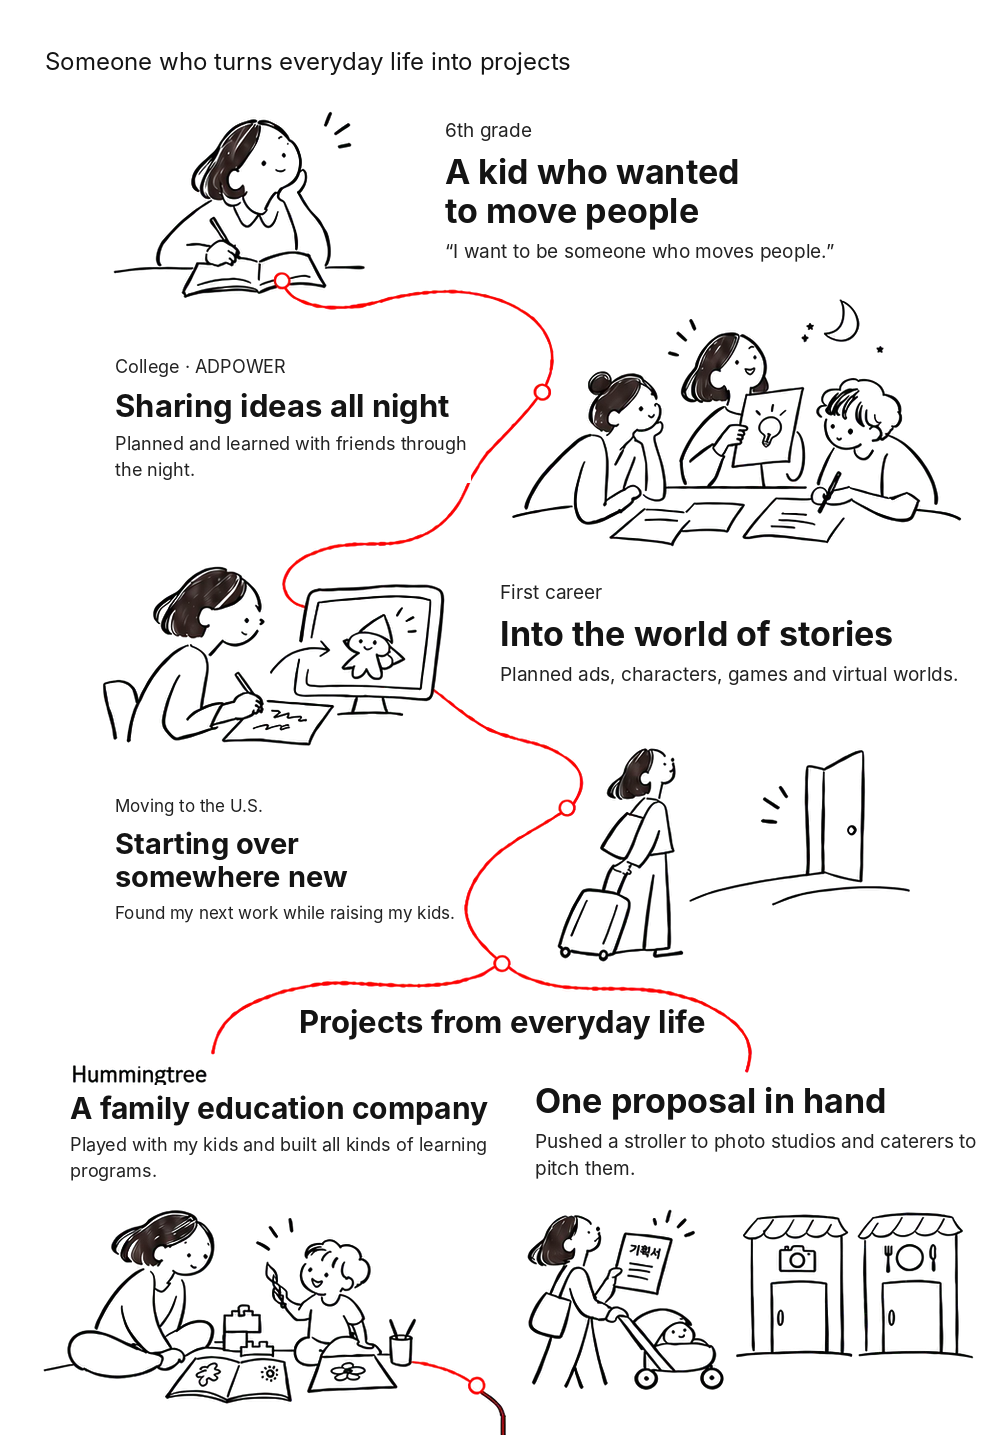
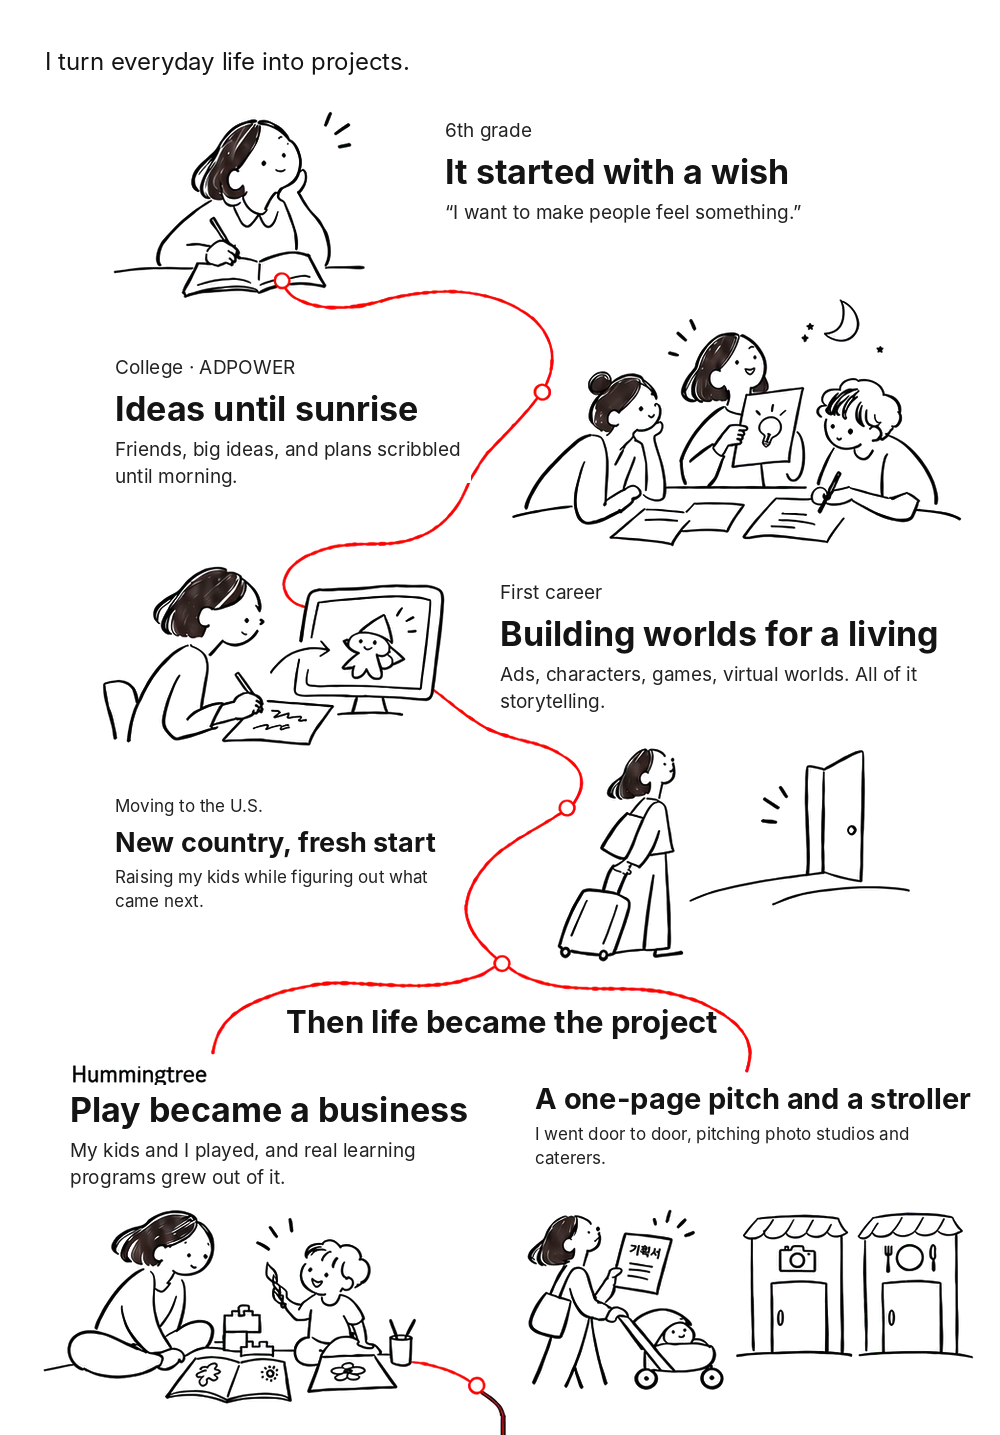
Rewrite English story illustrations in a natural first-person voice
The first English pass followed the Korean line by line and read as a
translation. The illustration text and alt text now say the same things
the way Eun Young would say them in English (e.g. "It started with a
wish", "Ideas until sunrise", "Play became a business", "A giggling
grandma on the stand-up stage").

Claude-Session: https://claude.ai/code/session_019GEG56SYYFRMRsvBGsGr5e

diff --git a/team/eunyoung.html b/team/eunyoung.html
@@ -467,11 +467,11 @@
         <section class="card story" aria-labelledby="eunyoung-story">
           <div class="role" id="eunyoung-story" data-i18n="eunyoung.story">The story so far</div>
           <a class="ko" lang="ko" href="/assets/team/eunyoung-story-1.webp" target="_blank" rel="noopener"><img src="/assets/team/eunyoung-story-1.webp" width="1000" height="1435" alt="일상을 프로젝트로 만드는 사람: 감동을 주고 싶던 초등학생, 대학 시절 ADPOWER에서 밤새 나눈 아이디어, 광고·캐릭터·게임을 기획한 첫 커리어, 미국 이주, 가족교육 회사 Hummingtree와 기획서 한 장으로 시작한 생활 속 프로젝트." loading="lazy" decoding="async"></a>
-          <a class="en" lang="en" href="/assets/team/eunyoung-story-1-en.webp" target="_blank" rel="noopener"><img src="/assets/team/eunyoung-story-1-en.webp" width="1000" height="1435" alt="Someone who turns everyday life into projects: a sixth grader who wanted to move people, nights of sharing ideas at ADPOWER in college, a first career planning ads, characters and games, the move to the U.S., and everyday projects from the family education company Hummingtree to pitching with a single proposal." loading="lazy" decoding="async"></a>
+          <a class="en" lang="en" href="/assets/team/eunyoung-story-1-en.webp" target="_blank" rel="noopener"><img src="/assets/team/eunyoung-story-1-en.webp" width="1000" height="1435" alt="I turn everyday life into projects: a sixth-grade wish to make people feel something, ideas until sunrise at ADPOWER in college, a first career building worlds through ads, characters and games, a fresh start in the U.S., then life as the project: Hummingtree, where play became a business, and a one-page pitch carried door to door with a stroller." loading="lazy" decoding="async"></a>
           <a class="ko" lang="ko" href="/assets/team/eunyoung-story-2.webp" target="_blank" rel="noopener"><img src="/assets/team/eunyoung-story-2.webp" width="1000" height="1374" alt="가족의 대화에서 AI 제품까지: 라디오 코리아의 가족 영화 토론 프로그램, 이민 여성의 새 출발을 도운 Simple Steps, 청소년과 가족을 위한 배움의 장 Culture Dots, AI 서비스를 기획하고 출시한 Dotdotdot." loading="lazy" decoding="async"></a>
-          <a class="en" lang="en" href="/assets/team/eunyoung-story-2-en.webp" target="_blank" rel="noopener"><img src="/assets/team/eunyoung-story-2-en.webp" width="1000" height="1374" alt="From family conversations to AI products: a film discussion program for families on Radio Korea, Simple Steps helping immigrant women start fresh, Culture Dots creating learning spaces for teens and families, and Dotdotdot, where she led the planning and launch of AI services." loading="lazy" decoding="async"></a>
+          <a class="en" lang="en" href="/assets/team/eunyoung-story-2-en.webp" target="_blank" rel="noopener"><img src="/assets/team/eunyoung-story-2-en.webp" width="1000" height="1374" alt="How family conversations led me to AI: a Radio Korea show where families talked through movies, Simple Steps helping immigrant women find their people and their footing, Culture Dots where teens and families learn side by side, and Dotdotdot, turning daydreams into AI products from first sketch to launch." loading="lazy" decoding="async"></a>
           <a class="ko" lang="ko" href="/assets/team/eunyoung-story-3.webp" target="_blank" rel="noopener"><img src="/assets/team/eunyoung-story-3.webp" width="1000" height="1436" alt="지금 만드는 일, 앞으로의 꿈: 가족이 서로를 이해하고 챙기도록 돕는 AI를 만드는 Homming, USC 대학원에서 에이징테크 공부, City of Bellevue에서 시민의 대화를 여는 일, 그리고 여든에 스탠드업 코미디언으로 데뷔하는 꿈." loading="lazy" decoding="async"></a>
-          <a class="en" lang="en" href="/assets/team/eunyoung-story-3-en.webp" target="_blank" rel="noopener"><img src="/assets/team/eunyoung-story-3-en.webp" width="1000" height="1436" alt="Now, and the dream ahead: Homming, an AI that helps families understand and care for each other; graduate study in AgeTech at USC; opening civic conversations with the City of Bellevue; and a dream of debuting as a stand-up comic at 80." loading="lazy" decoding="async"></a>
+          <a class="en" lang="en" href="/assets/team/eunyoung-story-3-en.webp" target="_blank" rel="noopener"><img src="/assets/team/eunyoung-story-3-en.webp" width="1000" height="1436" alt="Now, and what's next: Homming, helping families care for each other; a student again at USC, studying how we age and the tech that helps; bringing neighbors to the table with the City of Bellevue; and someday, at 80, a giggling grandma on the stand-up stage." loading="lazy" decoding="async"></a>
         </section>
       </div>
       <div class="more"><a href="/team" data-i18n="all">Everyone at Homming &rarr;</a></div>

diff --git a/scripts/build_team.py b/scripts/build_team.py
@@ -57,17 +57,17 @@ PEOPLE = [
                  "ko": ("/assets/team/eunyoung-story-1.webp",
                         "일상을 프로젝트로 만드는 사람: 감동을 주고 싶던 초등학생, 대학 시절 ADPOWER에서 밤새 나눈 아이디어, 광고·캐릭터·게임을 기획한 첫 커리어, 미국 이주, 가족교육 회사 Hummingtree와 기획서 한 장으로 시작한 생활 속 프로젝트."),
                  "en": ("/assets/team/eunyoung-story-1-en.webp",
-                        "Someone who turns everyday life into projects: a sixth grader who wanted to move people, nights of sharing ideas at ADPOWER in college, a first career planning ads, characters and games, the move to the U.S., and everyday projects from the family education company Hummingtree to pitching with a single proposal.")},
+                        "I turn everyday life into projects: a sixth-grade wish to make people feel something, ideas until sunrise at ADPOWER in college, a first career building worlds through ads, characters and games, a fresh start in the U.S., then life as the project: Hummingtree, where play became a business, and a one-page pitch carried door to door with a stroller.")},
                 {"w": 1000, "h": 1374,
                  "ko": ("/assets/team/eunyoung-story-2.webp",
                         "가족의 대화에서 AI 제품까지: 라디오 코리아의 가족 영화 토론 프로그램, 이민 여성의 새 출발을 도운 Simple Steps, 청소년과 가족을 위한 배움의 장 Culture Dots, AI 서비스를 기획하고 출시한 Dotdotdot."),
                  "en": ("/assets/team/eunyoung-story-2-en.webp",
-                        "From family conversations to AI products: a film discussion program for families on Radio Korea, Simple Steps helping immigrant women start fresh, Culture Dots creating learning spaces for teens and families, and Dotdotdot, where she led the planning and launch of AI services.")},
+                        "How family conversations led me to AI: a Radio Korea show where families talked through movies, Simple Steps helping immigrant women find their people and their footing, Culture Dots where teens and families learn side by side, and Dotdotdot, turning daydreams into AI products from first sketch to launch.")},
                 {"w": 1000, "h": 1436,
                  "ko": ("/assets/team/eunyoung-story-3.webp",
                         "지금 만드는 일, 앞으로의 꿈: 가족이 서로를 이해하고 챙기도록 돕는 AI를 만드는 Homming, USC 대학원에서 에이징테크 공부, City of Bellevue에서 시민의 대화를 여는 일, 그리고 여든에 스탠드업 코미디언으로 데뷔하는 꿈."),
                  "en": ("/assets/team/eunyoung-story-3-en.webp",
-                        "Now, and the dream ahead: Homming, an AI that helps families understand and care for each other; graduate study in AgeTech at USC; opening civic conversations with the City of Bellevue; and a dream of debuting as a stand-up comic at 80.")},
+                        "Now, and what's next: Homming, helping families care for each other; a student again at USC, studying how we age and the tech that helps; bringing neighbors to the table with the City of Bellevue; and someday, at 80, a giggling grandma on the stand-up stage.")},
             ],
         },
     },
